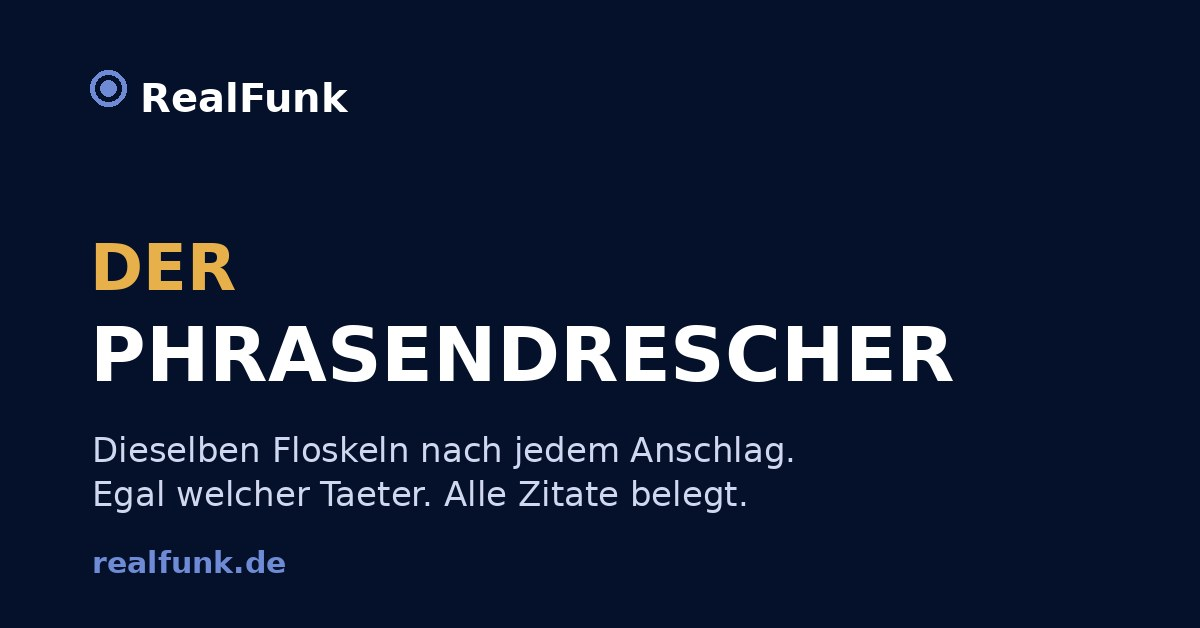
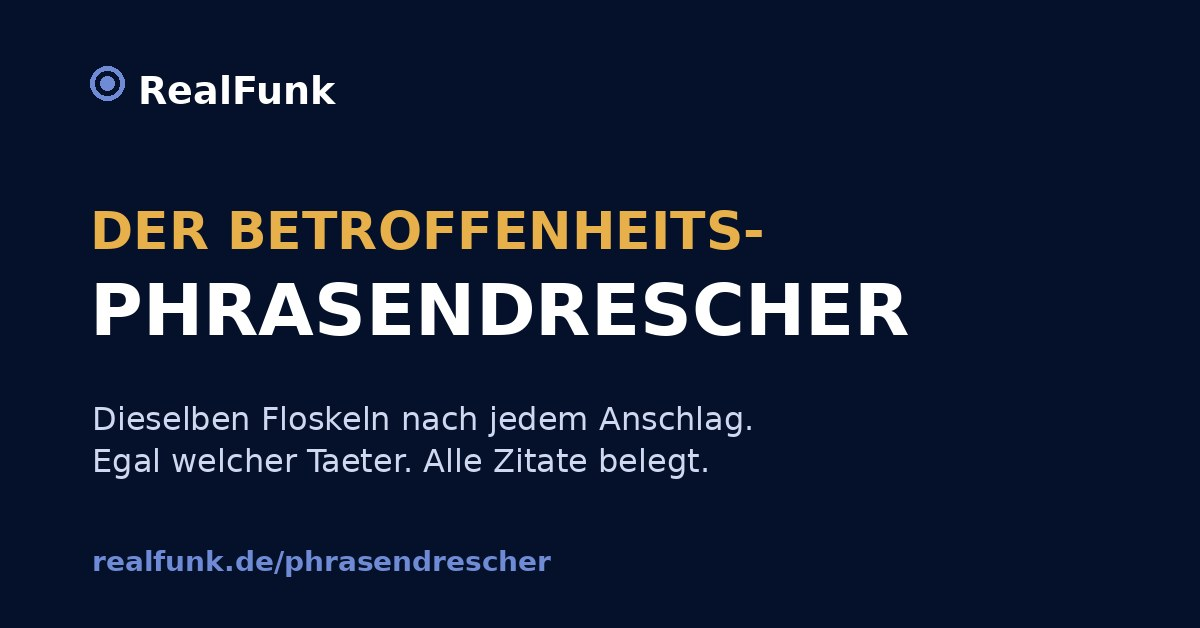
Umbenannt: Betroffenheits-Phrasendrescher (Titel, Meta, og-Karte)

diff --git a/phrasendrescher.html b/phrasendrescher.html
@@ -3,20 +3,20 @@
 <head>
 <meta charset="utf-8">
 <meta name="viewport" content="width=device-width, initial-scale=1">
-<meta name="description" content="Der Phrasendrescher: Hebel ziehen und sehen, welche Politiker-Floskel nach dem naechsten Anschlag faellt. Alle Zitate belegt, mit Name, Anlass und Quelle.">
+<meta name="description" content="Der Betroffenheits-Phrasendrescher: Hebel ziehen und sehen, welche Politiker-Floskel nach dem naechsten Anschlag faellt. Alle Zitate belegt, mit Name, Anlass und Quelle.">
 <link rel="canonical" href="https://realfunk.de/phrasendrescher.html">
 <meta property="og:type" content="website">
 <meta property="og:site_name" content="RealFunk">
 <meta property="og:locale" content="de_DE">
-<meta property="og:title" content="Der Phrasendrescher">
+<meta property="og:title" content="Der Betroffenheits-Phrasendrescher">
 <meta property="og:description" content="Hebel ziehen. Dieselben Floskeln nach jedem Anschlag, egal welcher Taeter. Alle Zitate belegt.">
 <meta property="og:url" content="https://realfunk.de/phrasendrescher.html">
 <meta property="og:image" content="https://realfunk.de/images/phrasendrescher-og.jpg">
 <meta name="twitter:card" content="summary_large_image">
-<meta name="twitter:title" content="Der Phrasendrescher">
+<meta name="twitter:title" content="Der Betroffenheits-Phrasendrescher">
 <meta name="twitter:description" content="Hebel ziehen. Dieselben Floskeln nach jedem Anschlag, egal welcher Taeter. Alle Zitate belegt.">
 <meta name="twitter:image" content="https://realfunk.de/images/phrasendrescher-og.jpg">
-<title>Der Phrasendrescher — RealFunk</title>
+<title>Der Betroffenheits-Phrasendrescher — RealFunk</title>
 <!-- Cloudflare Web Analytics --><script defer src='https://static.cloudflareinsights.com/beacon.min.js' data-cf-beacon='{"token": "a017662ec0e94031a498c6b772dc7271"}'></script><!-- End Cloudflare Web Analytics -->
 <style>
   *{box-sizing:border-box;}
@@ -55,7 +55,7 @@
   <a class="back" href="index.html">&larr; Startseite</a>
 </div>
 <div class="wrap">
-  <h1>Der Phrasendrescher</h1>
+  <h1>Der Betroffenheits-Phrasendrescher</h1>
   <p class="sub">Ein Anschlag, und die immer gleichen Sätze fallen. Hebel ziehen — und sehen, welche Floskel als Nächstes dran ist. Jedes Zitat belegt, mit Name, Anlass und Quelle.</p>
 
   <div class="machine" id="machine">
@@ -139,7 +139,7 @@
   function updateShare(){
     var url='https://realfunk.de/phrasendrescher.html';
     var txt=(fl.textContent+' '+me.textContent.replace('— ','')).replace(/\s+/g,' ').trim();
-    document.getElementById('wa').href='https://api.whatsapp.com/send?text='+encodeURIComponent(txt+' — Der Phrasendrescher: '+url);
+    document.getElementById('wa').href='https://api.whatsapp.com/send?text='+encodeURIComponent(txt+' — Der Betroffenheits-Phrasendrescher: '+url);
     document.getElementById('tw').href='https://twitter.com/intent/tweet?text='+encodeURIComponent(txt)+'&url='+encodeURIComponent(url);
   }
   lever.addEventListener('click',spin);
